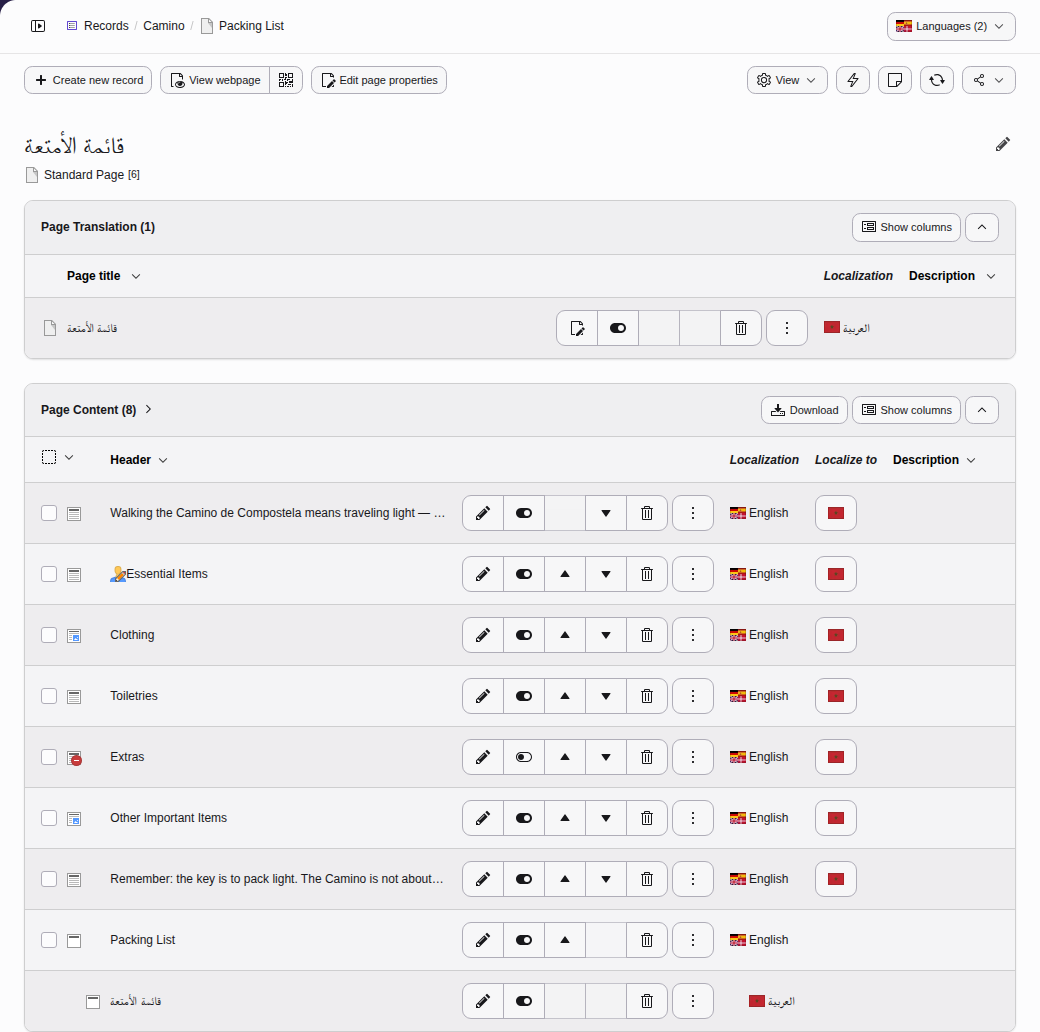
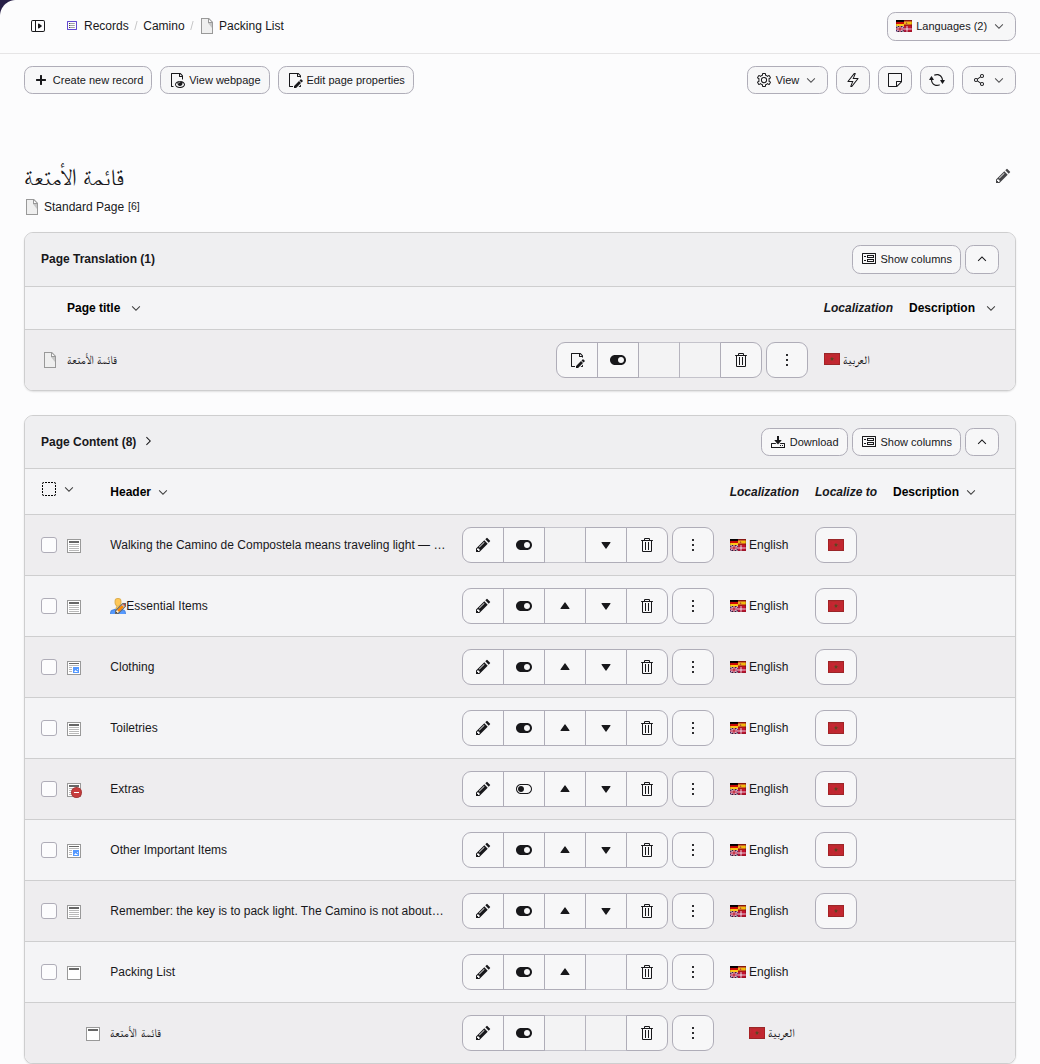
[TASK] Remove the QR code button of the Records module
TYPO3 15.0 removed the "Show QR code" button from the Content > Records
module, as the Content > Layout module has none either. The page about
deep linking still named the Records module, and two screenshots of the
Records module still showed the button.

Resolves: https://github.com/TYPO3-Documentation/Changelog-To-Doc/issues/1922
Releases: main
Assisted-by: Claude Opus 5.5 <noreply@anthropic.com>

diff --git a/Documentation/DeepLinking/Index.rst b/Documentation/DeepLinking/Index.rst
@@ -140,9 +140,8 @@ the QR code of a page:
 *   In the page tree, right-click the page and choose
     :guilabel:`Show QR code`. The context menu of a page offers the item
     wherever a page is listed.
-*   In the modules :guilabel:`Content > Records` and
-    :guilabel:`Content > Preview`, click the :guilabel:`Show QR code` button
-    in the top bar.
+*   In the module :guilabel:`Content > Preview`, click the
+    :guilabel:`Show QR code` button in the top bar.
 
 ..  figure:: /Images/GeneratedScreenshots/DeepLinking/QrCodeContextMenu.png
     :alt: The context menu of the page "Packing List" in the page tree, with
